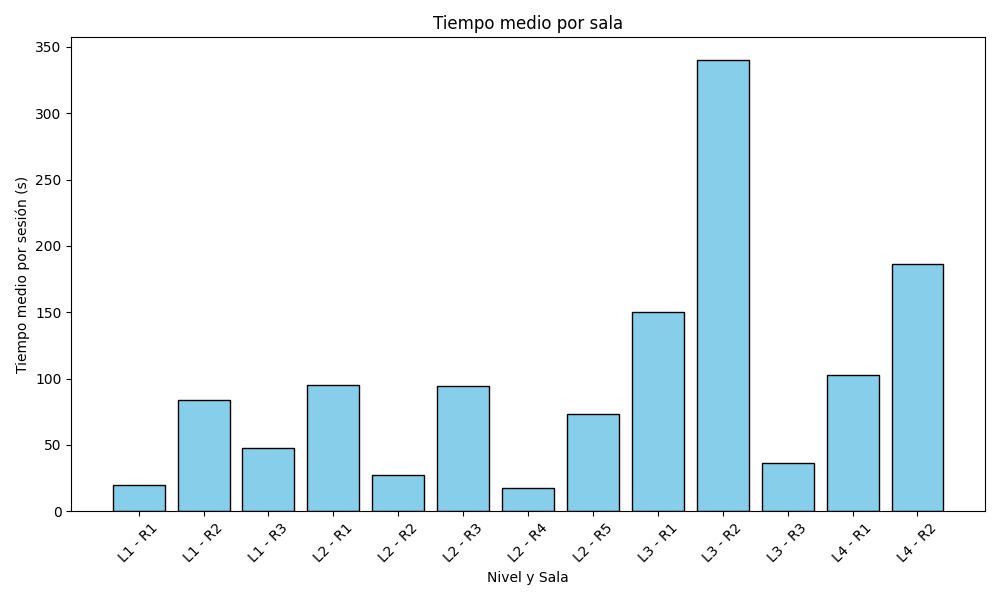
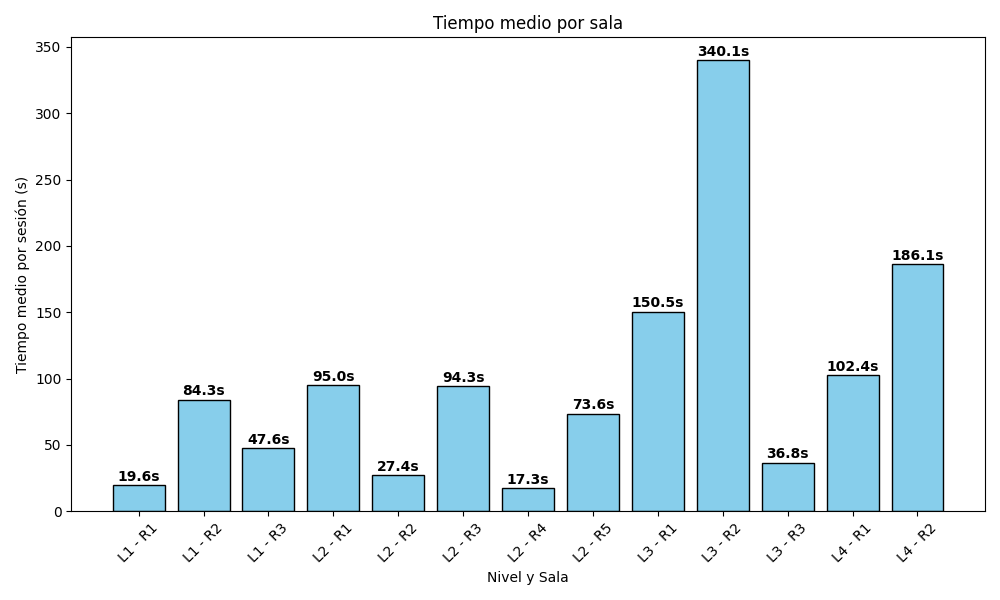
Aparece el valor encima

diff --git a/Metricas/src/Player_Death.py b/Metricas/src/Player_Death.py
@@ -101,8 +101,14 @@ os.makedirs("graficos", exist_ok=True)
 
 # Crear gráfico
 plt.figure(figsize=(10, 6))
-# Usamos color 'crimson' para distinguir las muertes de los tiempos o resets
-plt.bar(labels, percentages, color='crimson', edgecolor='black')
+bars = plt.bar(labels, percentages, color='skyblue', edgecolor='black')
+
+# Escribir el porcentaje encima de cada barra
+for bar in bars:
+    yval = bar.get_height()
+    # Colocamos el texto justo encima (yval + 1) y centrado
+    plt.text(bar.get_x() + bar.get_width()/2, yval + 1, f'{round(yval, 1)}%', 
+                ha='center', va='bottom', fontweight='bold')
 plt.xlabel("Nivel y Sala")
 plt.ylabel("Porcentaje sobre el total (%)")
 plt.title("Porcentaje de muertes por sala")

diff --git a/Metricas/src/Manual_Reset.py b/Metricas/src/Manual_Reset.py
@@ -96,7 +96,14 @@ os.makedirs("graficos", exist_ok=True)
 
 # Crear gráfico 
 plt.figure(figsize=(10, 6))
-plt.bar(labels, percentages, color='skyblue', edgecolor='black')
+bars = plt.bar(labels, percentages, color='skyblue', edgecolor='black')
+
+# Escribir el porcentaje encima de cada barra
+for bar in bars:
+    yval = bar.get_height()
+    # Colocamos el texto justo encima (yval + 1) y centrado
+    plt.text(bar.get_x() + bar.get_width()/2, yval + 1, f'{round(yval, 1)}%', 
+                ha='center', va='bottom', fontweight='bold')
 plt.xlabel("Nivel y Sala")
 plt.ylabel("Porcentaje sobre el total (%)")
 plt.title("Porcentaje de resets por sala")

diff --git a/Metricas/src/Room_Time.py b/Metricas/src/Room_Time.py
@@ -129,7 +129,14 @@ os.makedirs("graficos", exist_ok=True)
 
 # Gráfico
 plt.figure(figsize=(10, 6))
-plt.bar(labels, counts, color='skyblue', edgecolor='black')
+bars = plt.bar(labels, counts, color='skyblue', edgecolor='black')
+
+# Escribir el tiempo encima de cada barra
+for bar in bars:
+    yval = bar.get_height()
+    # Colocamos el texto justo encima (yval + 1) y centrado
+    plt.text(bar.get_x() + bar.get_width()/2, yval + 1, f'{round(yval, 1)}s', 
+                ha='center', va='bottom', fontweight='bold')
 plt.xlabel("Nivel y Sala")
 plt.ylabel("Tiempo medio por sesión (s)")
 plt.title("Tiempo medio por sala")
